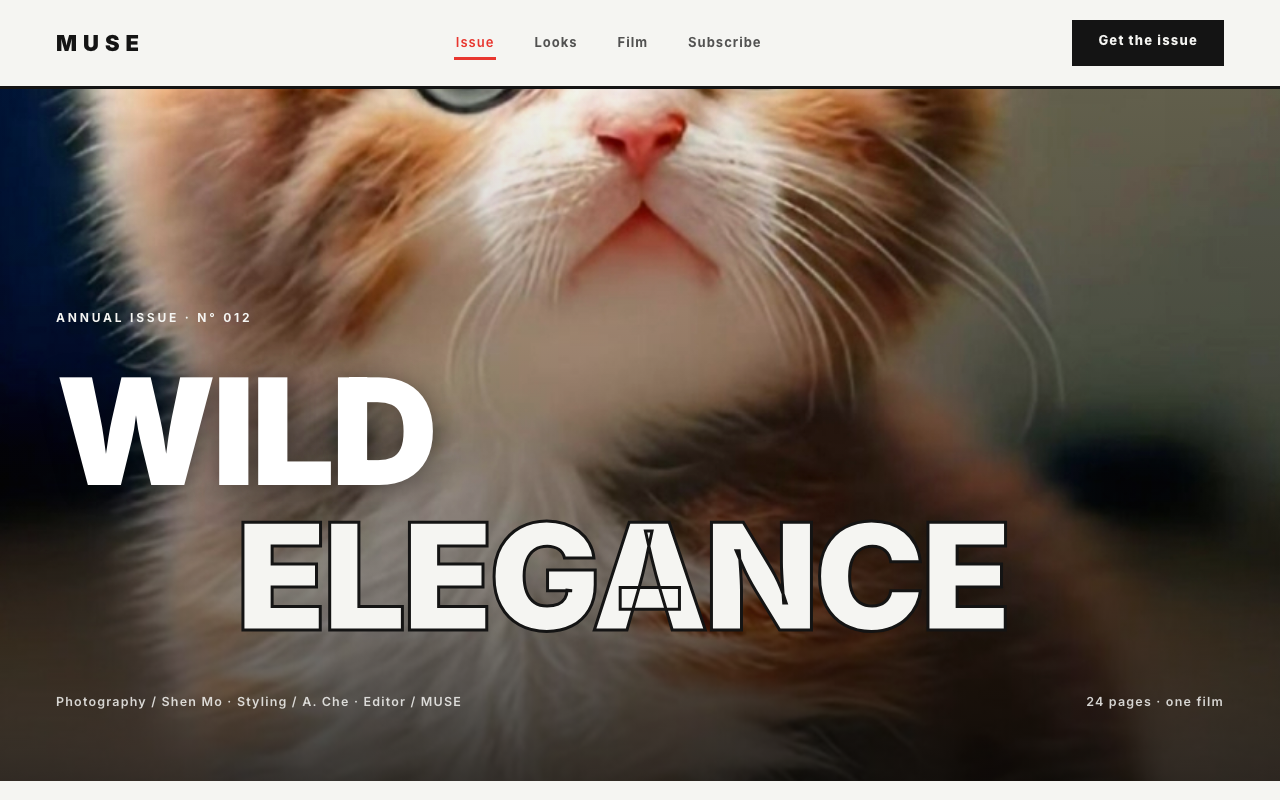
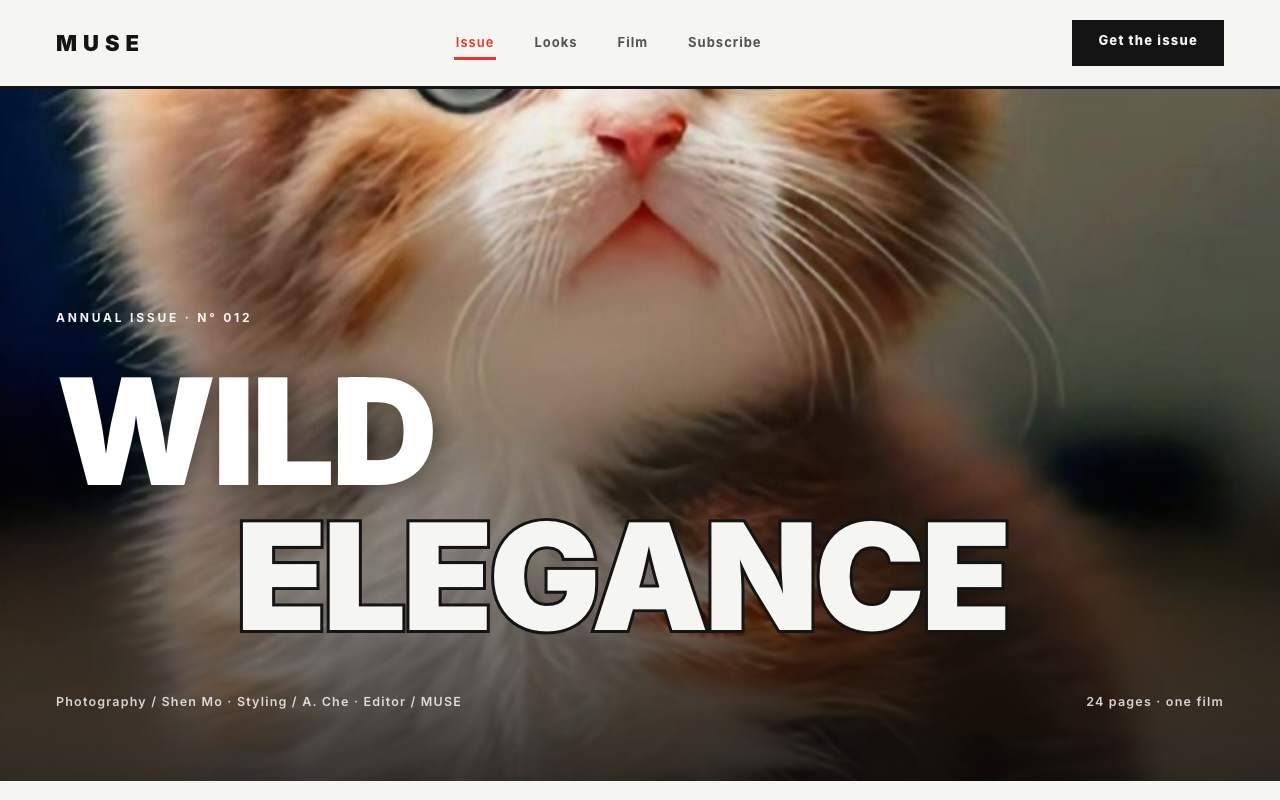
fix: 描边字加 paint-order: stroke fill（Latin 大写字母的「幽灵轮廓」）
Chromium 对字形的每条 sub-path 独立描边，Inter 的拉丁大写字母（R/A/C/K/D…）
由重叠 sub-path 拼成，接缝被一并描边后从填充里透出来，看起来像两个字叠在一起。
CJK 字形不重叠 → 中文版一直是干净的，所以双语对照没能发现。

修法：:scope 里加 paint-order: stroke fill（填充画在最后盖住接缝）；透明填充改为
背景色、描边宽度翻倍（填充吃掉内侧一半）。Chromium 149 与 WebKit 26 实测一致。
命中 3 个模板英文版（sty-type-lab / sty-memphis / sty-fashion），缩略图已重截。

diff --git a/exhibits/templates/content/sty-type-lab.md b/exhibits/templates/content/sty-type-lab.md
@@ -208,7 +208,12 @@
       # the middle layer is the whole point of that line (the word demonstrates its own subject).
       @tl_hero_kicker = { color: rgba(245, 245, 240, 0.45); font-size: 12px; font-weight: 600; letter-spacing: 3px; }
       @tl_hero_type1 = { color: #F5F5F0; font-size: 132px; font-weight: 900; letter-spacing: -3px; line-height: 1.0; }
-      @tl_hero_type2 = { color: transparent; font-size: 132px; font-weight: 900; letter-spacing: 22px; line-height: 1.0; :scope { -webkit-text-stroke: 2.5px #F5F5F0; } }
+      # ⚠ Latin outline type needs `paint-order: stroke fill`. Chromium strokes every sub-path of a
+      # glyph independently, so Inter's R / A / C / K … (built from overlapping sub-paths) show their
+      # internal seams as a second "ghost" outline inside the letter. Painting the fill last hides
+      # them — which means the fill can no longer be transparent: it becomes the page colour, and the
+      # stroke doubles (5px → a 2.5px rim) because the fill now covers its inner half.
+      @tl_hero_type2 = { color: #111111; font-size: 132px; font-weight: 900; letter-spacing: 22px; line-height: 1.0; :scope { -webkit-text-stroke: 5px #F5F5F0; paint-order: stroke fill; } }
       @tl_hero_reverse = { background: #D4FF3F; }
       @tl_hero_type3 = { color: #111111; font-size: 132px; font-weight: 900; letter-spacing: -3px; line-height: 1.0; }
       @tl_hero_meta_l = { color: rgba(245, 245, 240, 0.6); font-size: 14px; line-height: 1.75; }
@@ -321,7 +326,7 @@ now almost exactly as wide as the mixed-case row below it (1001px). Row 4 was CJ
 in the Mono card. The glyph count (27,533) and the "every punctuation mark and symbol" claim still
 hold — the page just shows the Latin half of the set.
 
-**Two deliberate fixes:**
+**Three deliberate fixes:**
 
 1. `tl_fam2_big` / `tl_fam2_small` now carry `font-family: Georgia, 'Songti SC', 'Times New Roman',
    serif`. In the Chinese source the "Song" specimen card was set in the page's default sans, which
@@ -329,6 +334,21 @@ hold — the page just shows the Latin half of the set.
    gives the Song card a real serif stack so the three cards genuinely differ.
 2. Prices move to `$260 / year` to match the currency style of the other English templates; the
    fictional-brand disclaimer is restated in English.
+3. **The outlined hero layer needed `paint-order: stroke fill`** — without it, `TRACKING` rendered
+   as *two* overlapping outlines. Chromium strokes each sub-path of a glyph independently, and
+   Inter builds Latin capitals (R, A, C, K …) from overlapping sub-paths, so the internal seams were
+   stroked too and read as a ghost letter inside the real one. Chromium's own font-independent
+   repro:
+
+   ```html
+   <span style="font: 900 300px Inter; color: transparent; -webkit-text-stroke: 3px #fff">R</span>
+   <!-- spurious ink appears along the stem/bowl junction — measured, not a guess -->
+   ```
+
+   Painting the fill last covers those seams; the price is that the fill can no longer be
+   `transparent` (it becomes `#111111`, the page colour) and the stroke doubles to 5px so the
+   visible rim stays 2.5px. CJK glyphs are built without overlapping sub-paths, which is why the
+   Chinese edition (`字距即呼吸`) looked fine and the bug only surfaced on the English one.
 
 **No structural refactor was needed.** Every node id is identical to the Chinese version, including
 the ones the E2E and the thumbnail pipeline address (`tl_hero_meta_r`, `tl_glyph_region`,

diff --git a/exhibits/templates/marketing/sty-memphis.md b/exhibits/templates/marketing/sty-memphis.md
@@ -238,7 +238,12 @@
       # minus 48px gutters). The Chinese 是生产力 is 4 glyphs / 496px for the same slot, so the English
       # line is re-split ("FUN IS" / "PRODUCTIVITY") to keep both the two-line staircase and the size.
       @mp_hero_l1 = { color: #111; font-size: 124px; font-weight: 900; line-height: 1.02; letter-spacing: -3px; }
-      @mp_hero_l2 = { color: #FF3D8B; font-size: 124px; font-weight: 900; line-height: 1.02; letter-spacing: -3px; :scope { -webkit-text-stroke: 3px #111; } }
+      # ⚠ `paint-order: stroke fill` is required for Latin outline type: Chromium strokes every
+      # sub-path of a glyph independently, so Inter's R / D / U / C … (overlapping sub-paths) leak
+      # their internal seams through the fill as a "ghost" outline (the zh edition's 是生产力 is CJK
+      # and never showed it). The fill is painted last now, so it hides the seams; the stroke doubles
+      # (3px → 6px) to keep the same visible rim, since the fill covers its inner half.
+      @mp_hero_l2 = { color: #FF3D8B; font-size: 124px; font-weight: 900; line-height: 1.02; letter-spacing: -3px; :scope { -webkit-text-stroke: 6px #111; paint-order: stroke fill; } }
       @mp_hero_sub = { color: #3F3A33; font-size: 16px; line-height: 1.8; font-weight: 500; }
       @mp_hero_btn = { background: #111; border: 3px solid #111; border-radius: 999px; transition: transform 0.2s ease; :scope:hover { transform: translateY(-3px); } }
       @mp_hero_btn_txt = { color: #FFFBF2; font-size: 15px; font-weight: 800; letter-spacing: 0.6px; }
@@ -348,3 +353,10 @@ quotes replacing the CJK corner brackets, since the brackets are a CJK punctuati
 `小红书` → **Instagram** (the international equivalent in the same footer slot, beside Behance),
 and `创意热店` → "creative hot shop" ("hot shop" is the English industry term for exactly this kind
 of studio). Node ids are unchanged throughout.
+
+**One rendering fix, same root cause as `sty-type-lab`.** The outlined hero line needed
+`paint-order: stroke fill`. Chromium strokes each sub-path of a glyph independently, and Inter builds
+Latin capitals (P, R, D, U, C …) out of *overlapping* sub-paths, so the internal seams got stroked
+too and bled through the pink fill as a ghost outline inside each letter. Painting the fill last
+covers them; the stroke doubles 3px → 6px so the visible rim is unchanged (the fill now covers the
+stroke's inner half). The zh edition's 是生产力 is CJK — no overlapping sub-paths, no artifact.

diff --git a/exhibits/templates/marketing/sty-fashion.md b/exhibits/templates/marketing/sty-fashion.md
@@ -234,7 +234,12 @@
       # indent stays at 180px: uppercase Latin already carries its own sidebearings, so it needs less
       # negative tracking than the two-glyph Chinese line did.
       @fs_hero_l1 = { color: #FFFFFF; font-size: 148px; font-weight: 900; line-height: 0.98; letter-spacing: -4px; :scope { text-shadow: 0 3px 26px rgba(0, 0, 0, 0.4); } }
-      @fs_hero_l2 = { color: #F5F5F2; font-size: 148px; font-weight: 900; line-height: 0.98; letter-spacing: -4px; :scope { -webkit-text-stroke: 3px #141414; } }
+      # ⚠ `paint-order: stroke fill` is required for Latin outline type: Chromium strokes every
+      # sub-path of a glyph independently, so Inter's R / A / N / C … (overlapping sub-paths) leak
+      # their internal seams through the fill as a "ghost" outline (the zh edition's 优雅 is CJK and
+      # never showed it). The fill is painted last now, so it hides the seams; the stroke doubles
+      # (3px → 6px) to keep the same visible rim, since the fill covers its inner half.
+      @fs_hero_l2 = { color: #F5F5F2; font-size: 148px; font-weight: 900; line-height: 0.98; letter-spacing: -4px; :scope { -webkit-text-stroke: 6px #141414; paint-order: stroke fill; } }
       @fs_hero_meta_l = { color: rgba(245, 245, 242, 0.85); font-size: 12.5px; font-weight: 600; letter-spacing: 1.2px; }
       @fs_hero_meta_r = { color: rgba(245, 245, 242, 0.85); font-size: 12.5px; font-weight: 600; letter-spacing: 1.2px; }
 
@@ -343,3 +348,10 @@ Chinese and stays. `订阅全年` → "Subscribe for a year"; `往期` → "Back
 credit line, `Photography / Shen Mo · Styling / A. Che · Editor / MUSE`. The film caption
 `02:11 的幕后` → "Behind 02:11" so the runtime keeps its place in both the label and the heading.
 Node ids are unchanged throughout.
+
+**One rendering fix, same root cause as `sty-type-lab`.** The outlined hero line needed
+`paint-order: stroke fill`. Chromium strokes each sub-path of a glyph independently, and Inter builds
+Latin capitals (E, L, G, A, N, C …) out of *overlapping* sub-paths, so the internal seams got stroked
+too and bled through the off-white fill as a ghost outline inside each letter. Painting the fill last
+covers them; the stroke doubles 3px → 6px so the visible rim is unchanged (the fill now covers the
+stroke's inner half). The zh edition's 优雅 is CJK — no overlapping sub-paths, no artifact.
